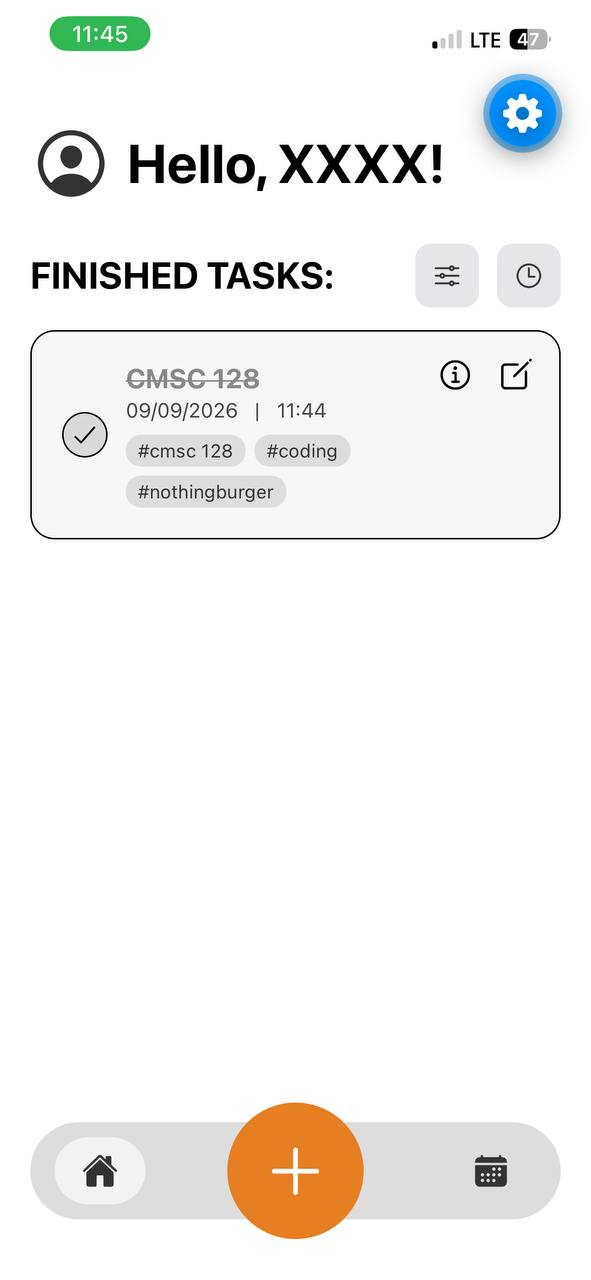
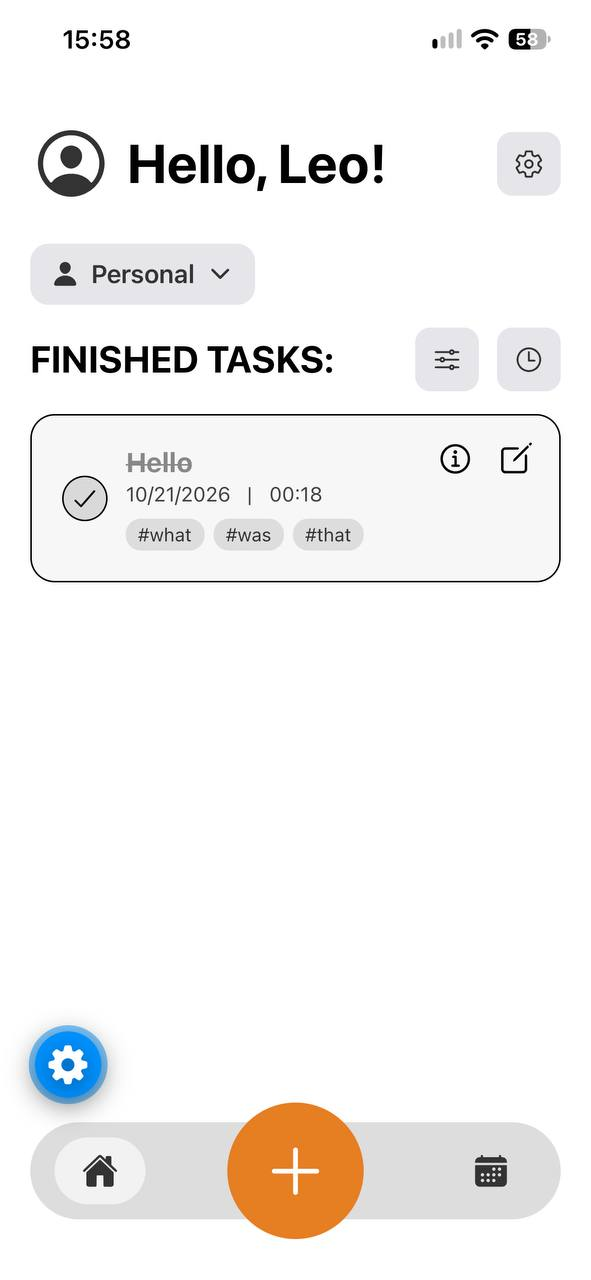
docs: updated readme to include collaboration changes

diff --git a/app/index.js b/app/index.js
@@ -343,7 +343,7 @@ export default function HomeScreen() {
           onPress={() => setShowListMenu(false)}
         >
           <View style={styles.listMenuPanel}>
-            <Text style={styles.listMenuTitle}>Switch list</Text>
+            <Text style={styles.listMenuTitle}>Switch Team</Text>
 
             <ScrollView>
               {[{ id: null, name: "Personal" }, ...teams].map((list) => {

diff --git a/README.md b/README.md
@@ -1,6 +1,6 @@
 # Task Manager
 
-A cross-platform task management app built for CMSC 128. Users create an account or sign in, then create, view, update, complete, filter, sort, and delete their tasks. Each task is associated with the signed-in Firebase user.
+A cross-platform task management app built for CMSC 128. Users create an account or sign in, then create, view, update, complete, filter, sort, and delete personal tasks or collaborate on tasks in shared teams.
 
 ## Tech stack
 
@@ -20,6 +20,12 @@ Cloud Firestore was chosen because it provides a hosted NoSQL database with a st
 
 Firebase Authentication handles account credentials and auth state. The app uses the Firebase JavaScript SDK directly from the React Native client; it does not expose a custom REST API.
 
+## Activity 1 and Activity 2 integration
+
+Activity 1's `main` branch (`cmsc128-Indiv-Act1-finalX`) provided the task CRUD, filtering, sorting, and calendar foundation. Activity 2 was developed on `act2-accounts` and merged into `act3-ubac` from that Activity 1 history using a pull request and a history-preserving Git merge (`17fb6b3`, PR #7). This kept the Activity 1 commits in the branch history rather than squashing them.
+
+The main overlap was in the task screens and task service. The integration kept the existing task workflows and added Firebase auth state, login/sign-up/profile routes, and per-user task scoping: task creation now stores the current Firebase UID in `userId`, and personal task reads filter by that UID. The merge history does not record a separate conflict-resolution commit; these are the resulting integration changes visible in the merge.
+
 ## Features
 
 - Create an account with a display name, email, and password; log in and log out
@@ -36,6 +42,8 @@ Firebase Authentication handles account credentials and auth state. The app uses
 - Delete tasks with a temporary **Undo** action
 - View detailed task information
 - View task dates in the calendar
+- Create and manage collaborative teams, add members by email, and remove members
+- Create and manage tasks in either a personal list or a selected team list
 
 ## Prerequisites
 
@@ -60,7 +68,7 @@ Install the following before running the project:
    npm install
    ```
 
-3. Create a `.env` file in the project root. Add the Firebase web app configuration:
+3. Copy `.env_EXAMPLE` to `.env` in the project root and fill in the Firebase web app configuration:
 
    ```env
    EXPO_PUBLIC_FIREBASE_API_KEY=your_api_key
@@ -71,13 +79,13 @@ Install the following before running the project:
    EXPO_PUBLIC_FIREBASE_APP_ID=your_app_id
    ```
 
-4. In the Firebase console, enable **Authentication > Sign-in method > Email/Password** and create a **Cloud Firestore** database. The app stores task documents in the `tasks` collection. No database migration or seed data is required; task documents are created when users add tasks.
+4. In the Firebase console, enable **Authentication > Sign-in method > Email/Password** and create a **Cloud Firestore** database. The app creates documents in the `users`, `tasks`, and `teams` collections as users sign up and use the app; no seed data or database migration is required.
 
-5. Configure Firestore Security Rules to authorize access only to the authenticated owner of each task. The app stores the Firebase user's UID in each task's `userId` field and filters task lists by that UID, but client-side filtering is not a security boundary. This repository does not include deployable Firestore rules.
+5. Configure and deploy Firestore Security Rules before using real user data. Rules should restrict personal task access to its `userId` owner and shared task/team access to team members, and restrict team administration to the team owner as appropriate. This repository does not include deployable Firestore rules: client-side ownership checks and query filters are useful application behavior, but are not a security boundary.
 
 ## Run the app
 
-Start the Expo development server:
+Start the Expo development server from the project root:
 
 ```bash
 npx expo start
@@ -114,28 +122,67 @@ await logoutUser();
 
 ## Firestore data model
 
-Tasks are stored in the `tasks` collection. A task document has the following shape:
+The app uses three top-level Firestore collections. Firebase Authentication is the source of user identity; each user's document ID is their Firebase UID.
+
+- `users/{uid}` stores the account's lowercase email and optional display name. It is synced from the authenticated Firebase user.
+- `teams/{teamId}` stores a shared list, its owner, and its members:
+
+  ```js
+  {
+    name: "Project team",
+    ownerId: "firebase-auth-uid",
+    memberIds: ["firebase-auth-uid", "another-auth-uid"],
+    createdAt: Timestamp
+  }
+  ```
+
+- `tasks/{taskId}` stores each task. A personal task has `teamId: null`; a shared task has the ID of its team. `userId` identifies the task creator in either case.
+
+  ```js
+  {
+    userId: "firebase-auth-uid",
+    teamId: null, // or a team document ID for a shared task
+    title: "Submit lab report",
+    details: "Finish the CRUD documentation",
+    dueDate: Timestamp,
+    priority: "high",
+    tags: ["school", "cmsc128"],
+    isDone: false,
+    createdAt: Timestamp
+  }
+  ```
+
+Tasks are not nested under users or teams; `userId` and `teamId` link each task to its creator and, optionally, its shared list. Deleting a team also deletes its associated tasks.
+
+## Operations and ownership checks
+
+The app uses Firebase client operations rather than a custom HTTP API. The examples below are functions from [`backend/services/taskService.js`](./backend/services/taskService.js) and [`backend/services/teamService.js`](./backend/services/teamService.js):
 
 ```js
-{
-  userId: "firebase-auth-uid",
-  title: "Submit lab report",
-  details: "Finish the CRUD documentation",
-  dueDate: Timestamp,
-  priority: "high",
-  tags: ["school", "cmsc128"],
-  isDone: false,
-  createdAt: Timestamp
-}
+// Personal task: createTask reads auth.currentUser.uid and stores it as userId.
+await createTask({ title, details, dueDate, priority, tags });
+
+// Personal task reads are filtered by the signed-in user's UID.
+const personalTasks = await getAllTasks();
+
+// A single-task read returns null unless the current user owns the personal
+// task or is a member of the team associated with the shared task.
+const task = await getTaskById(taskId);
+
+// Team administration checks the signed-in UID against teams/{teamId}.ownerId.
+await addMemberByEmail(teamId, email);
+await deleteTeam(teamId);
 ```
 
-## CRUD and data operations
+For a personal task, `getTaskById` checks `task.userId` against the current UID. For a team task, it checks that the team exists and that the UID appears in `team.memberIds`. Team member addition and team deletion check `ownerId`. Task list queries are scoped by user ID for personal tasks or by team ID for shared tasks.
 
-This app does not expose REST endpoints. CRUD operations are implemented with Firebase Firestore calls in [`backend/services/taskService.js`](./backend/services/taskService.js).
+These checks run in the client and do not replace Firestore Security Rules. In particular, task update/delete functions issue Firestore writes by document ID; the deployed rules must authorize those writes (and team membership/owner access) using the authenticated user and stored document data.
+
+## Task CRUD
 
 ### Create
 
-`createTask(taskData)` adds a document to the `tasks` collection:
+`createTask(taskData)` adds a document to `tasks`. Omitting `teamId` creates a personal task; supplying a selected team ID creates a shared task:
 
 ```js
 await createTask({
@@ -144,26 +191,24 @@ await createTask({
   dueDate,
   priority,
   tags,
+  teamId, // optional; null for a personal task
 });
 ```
 
-Internally, this uses Firestore `addDoc(collection(db, "tasks"), newTask)`.
-
 ### Read
 
-Read one task by document ID:
+Read one task by document ID or fetch tasks from the active personal/team list:
 
 ```js
 const task = await getTaskById(taskId);
+const tasks = await getAllTasks(teamId); // omit/null for personal tasks
 ```
 
 Read tasks due on a specific date:
 
 ```js
-const tasks = await getTasksByDate("2026-09-09");
+const tasksForDate = await getTasksByDate("2026-09-09", teamId);
 ```
-
-Read operations use Firestore `getDoc` and `getDocs` queries.
 
 ### Update
 
@@ -185,8 +230,6 @@ Toggle completion:
 await toggleTaskComplete(taskId, currentIsDone);
 ```
 
-These operations use Firestore `updateDoc`.
-
 ### Delete
 
 Permanent deletion uses:
@@ -195,7 +238,7 @@ Permanent deletion uses:
 await deleteTask(taskId);
 ```
 
-This calls Firestore `deleteDoc`. The edit screen first returns to the task list and displays an Undo snackbar. If the user does not undo within five seconds, the delete operation is finalized.
+The edit screen first returns to the task list and displays an Undo snackbar. If the user does not undo within five seconds, the delete operation is finalized.
 
 ## Screenshots
 
@@ -216,17 +259,21 @@ This calls Firestore `deleteDoc`. The edit screen first returns to the task list
 ![Task list screenshot](assets/screenshots-app/homescreen.jpg)
 
 #### Profile Screen
-
-
 ![Profile screenshot](assets/screenshots-app/profile.jpg)
 
-#### Add Task Screen
+### Teams Screen
+![Teams screenshot](assets/screenshots-app/teams.jpg)
 
+
+#### Add Task Screen
 ![Add task screenshot](assets/screenshots-app/add.jpg)
 
 #### Edit Task Screen
 
 ![Edit task screenshot](assets/screenshots-app/edit.jpg)
+
+### Switch Team Screen
+![Switch Team screenshot](assets/screenshots-app/switchteams.jpg)
 
 ### Filter and Sort Controls
 
@@ -243,4 +290,3 @@ This calls Firestore `deleteDoc`. The edit screen first returns to the task list
 ### Finished Tasks
 
 ![Finished tasks screenshot](assets/screenshots-app/archive.jpg)
-
